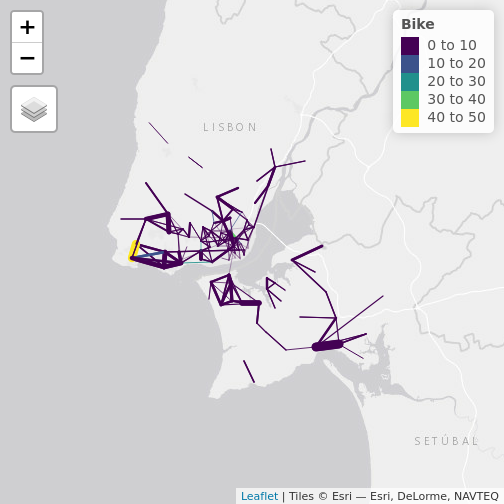
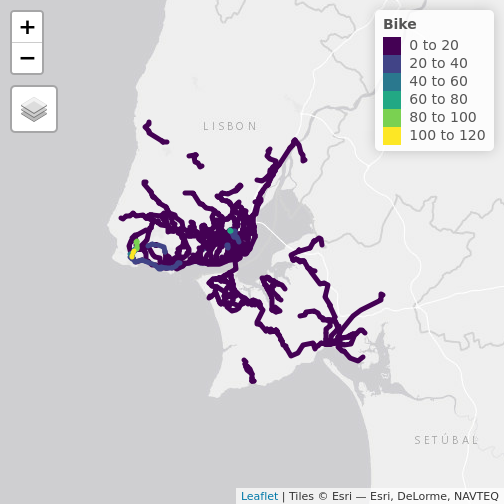
Update reproducible example

diff --git a/reproducible-example.md b/reproducible-example.md
@@ -3,28 +3,12 @@
 ```r
 # Aim: test R installations have the necessary packages installed
 
-install.packages("remotes", quiet = TRUE)
-```
+pkgs = c("sf", "stplanr", "pct", "tmap", "dplyr")
+# uncomment these lines if line 7 doesn't work...
+# install.packages(pkgs)
+# install.packages("remotes", quiet = TRUE)
+remotes::install_cran(pkgs, quiet = TRUE)
 
-```
-## Error in install.packages : Updating loaded packages
-```
-
-```r
-remotes::install_cran(c("sf", "stplanr", "pct", "tmap", "dplyr"), quiet = TRUE)
-```
-
-```
-## Installing 1 packages: tmap
-```
-
-```r
-# piggyback::pb_upload("od_data_final.csv")
-# piggyback::pb_upload("desire_lines_final.geojson")
-# piggyback::pb_upload("districts.geojson")
-# # piggyback::pb_download(file = "CENTROIDS.Rds", repo = "U-Shift/pct-lisbon2")
-# # centroids = readRDS("CENTROIDS.Rds")
-# st_write(centroids, "centroids.geojson")
 u_od = "od_data_final.csv"
 od_data = read.csv("od_data_final.csv")
 ```
@@ -43,48 +27,32 @@ head(od_data)
 ```
 
 ```
-##   DICOFREor11 DICOFREde11  Car CarP Bike Walk Other Total Length_euclidean
-## 1      110501      110506  336   44    0    0     6   385         7340.246
-## 2      110501      110507  227  109    0    7    18   361         8684.329
-## 3      110501      110508 1095  332   41  341   316  2125         3521.560
-## 4      110501      111128  172   50    0    1    42   265         6300.765
-## 5      110506      110501  319   14    0    0    36   368         7340.246
-## 6      110506      110507  594  178    0  126   121  1019         3434.600
-##   pcycle_current pactiv_current
-## 1           0.00           0.00
-## 2           0.00           0.02
-## 3           0.02           0.18
-## 4           0.00           0.00
-## 5           0.00           0.00
-## 6           0.00           0.12
+## Error in head(od_data): object 'od_data' not found
 ```
 
 ```r
 plot(od_data$Length_euclidean, od_data$pcycle_current)
 ```
 
-![plot of chunk unnamed-chunk-1](figure/unnamed-chunk-1-1.png)
+```
+## Error in plot(od_data$Length_euclidean, od_data$pcycle_current): object 'od_data' not found
+```
 
 ```r
 library(sf)
+```
+
+```
+## Linking to GEOS 3.8.0, GDAL 3.0.4, PROJ 7.0.0
+```
+
+```r
 # test the sf package
-# u1 = "https://github.com/U-Shift/cyclingpotential-hack/releases/download/1.0/city_centroids.geojson"
-u1 = "districts.geojson"
-u1b = "centroids.geojson"
-districts = read_sf(u1)
-```
-
-```
-## Error: Cannot open "districts.geojson"; The file doesn't seem to exist.
-```
-
-```r
-plot(centroids)
-```
-
-![plot of chunk unnamed-chunk-1](figure/unnamed-chunk-1-2.png)
-
-```r
+u1 = "https://github.com/U-Shift/cyclingpotential-hack/releases/download/2.0.0/centroids.geojson"
+u1b = "https://github.com/U-Shift/cyclingpotential-hack/releases/download/2.0.0/districts.geojson"
+districts = read_sf(u1b)
+centroids = read_sf(u1)
+plot(districts$geometry)
 centroids_geo = st_centroid(districts)
 ```
 
@@ -100,12 +68,11 @@ centroids_geo = st_centroid(districts)
 ```
 
 ```r
-plot(districts$geometry)
 plot(centroids$geometry, add = TRUE)
 plot(centroids_geo$geometry, add = TRUE, col = "red")
 ```
 
-![plot of chunk unnamed-chunk-1](figure/unnamed-chunk-1-3.png)
+![plot of chunk unnamed-chunk-1](figure/unnamed-chunk-1-1.png)
 
 ```r
 # check interactive mapping with tmap
@@ -118,16 +85,8 @@ tmap_mode("view")
 ```
 
 ```r
-# u2 = "https://github.com/U-Shift/cyclingpotential-hack/releases/download/1.0/desire_lines_integers.geojson"
-u2 = "desire_lines_final.geojson"
+u2 = "https://github.com/U-Shift/cyclingpotential-hack/releases/download/2.0.0/desire_lines_final.geojson"
 desire_lines = sf::read_sf(u2)
-```
-
-```
-## Error: Cannot open "desire_lines_final.geojson"; The file doesn't seem to exist.
-```
-
-```r
 tm_shape(desire_lines) +
   tm_lines(col = "Bike", palette = "viridis", lwd = "Car", scale = 9)
 ```
@@ -136,70 +95,54 @@ tm_shape(desire_lines) +
 ## Legend for line widths not available in view mode.
 ```
 
-![plot of chunk unnamed-chunk-1](figure/unnamed-chunk-1-4.png)
+![plot of chunk unnamed-chunk-1](figure/unnamed-chunk-1-2.png)
 
 ```r
 # check route network generation with stplanr
 library(stplanr)
-# u3 = "https://github.com/U-Shift/cyclingpotential-hack/releases/download/1.0/routes_integers_cs_balanced.geojson"
-u3 = "routes_fast.geojson"
+u3 = "https://github.com/U-Shift/cyclingpotential-hack/releases/download/2.0.0/routes_fast.geojson"
 routes = sf::read_sf(u3)
+library(dplyr)
 ```
 
 ```
-## Error: Cannot open "routes_fast.geojson"; The file doesn't seem to exist.
+## 
+## Attaching package: 'dplyr'
+```
+
+```
+## The following objects are masked from 'package:stats':
+## 
+##     filter, lag
+```
+
+```
+## The following objects are masked from 'package:base':
+## 
+##     intersect, setdiff, setequal, union
 ```
 
 ```r
-tm_shape(routes[]) +
-  tm_lines()
+routes_1 = routes %>% 
+  filter(route_number == 1)
+tm_shape(routes_1) +
+  tm_lines("gradient_segment", palette = "viridis")
 ```
 
-![plot of chunk unnamed-chunk-1](figure/unnamed-chunk-1-5.png)
+![plot of chunk unnamed-chunk-1](figure/unnamed-chunk-1-3.png)
 
 ```r
 rnet = overline(routes, "Bike") 
-```
-
-```
-## 2020-09-15 16:50:00 constructing segments
-```
-
-```
-## 2020-09-15 16:50:01 building geometry
-```
-
-```
-## 2020-09-15 16:50:02 simplifying geometry
-```
-
-```
-## 2020-09-15 16:50:02 aggregating flows
-```
-
-```
-## 2020-09-15 16:50:03 rejoining segments into linestrings
-```
-
-```r
 tm_shape(rnet) +
   tm_lines(scale = 5, col = "Bike", palette = "viridis")
 ```
 
-![plot of chunk unnamed-chunk-1](figure/unnamed-chunk-1-6.png)
+![plot of chunk unnamed-chunk-1](figure/unnamed-chunk-1-4.png)
 
 ```r
 # check analysis with dplyr and estimation of cycling uptake with pct function
 library(pct)
-library(dplyr)
 route_segments_balanced = sf::read_sf(u3)
-```
-
-```
-## Error: Cannot open "routes_fast.geojson"; The file doesn't seem to exist.
-```
-
-```r
 routes_balanced = route_segments_balanced %>% 
   group_by(DICOFREor11, DICOFREde11) %>% 
   summarise(
@@ -244,29 +187,6 @@ routes_balanced$Potential = pct::uptake_pct_godutch(
 
 ```r
 rnet_balanced = overline(routes_balanced, "Potential")
-```
-
-```
-## 2020-09-15 16:50:06 constructing segments
-```
-
-```
-## 2020-09-15 16:50:06 building geometry
-```
-
-```
-## 2020-09-15 16:50:08 simplifying geometry
-```
-
-```
-## 2020-09-15 16:50:08 aggregating flows
-```
-
-```
-## 2020-09-15 16:50:10 rejoining segments into linestrings
-```
-
-```r
 b = c(0, 0.5, 1, 2, 3, 8) * 1e4
 tm_shape(rnet_balanced) +
   tm_lines(lwd = "Potential", scale = 9, col = "Potential", palette = "viridis", breaks = b)
@@ -280,7 +200,7 @@ tm_shape(rnet_balanced) +
 ## Legend for line widths not available in view mode.
 ```
 
-![plot of chunk unnamed-chunk-1](figure/unnamed-chunk-1-7.png)
+![plot of chunk unnamed-chunk-1](figure/unnamed-chunk-1-5.png)
 
 ```r
 # generate output report
